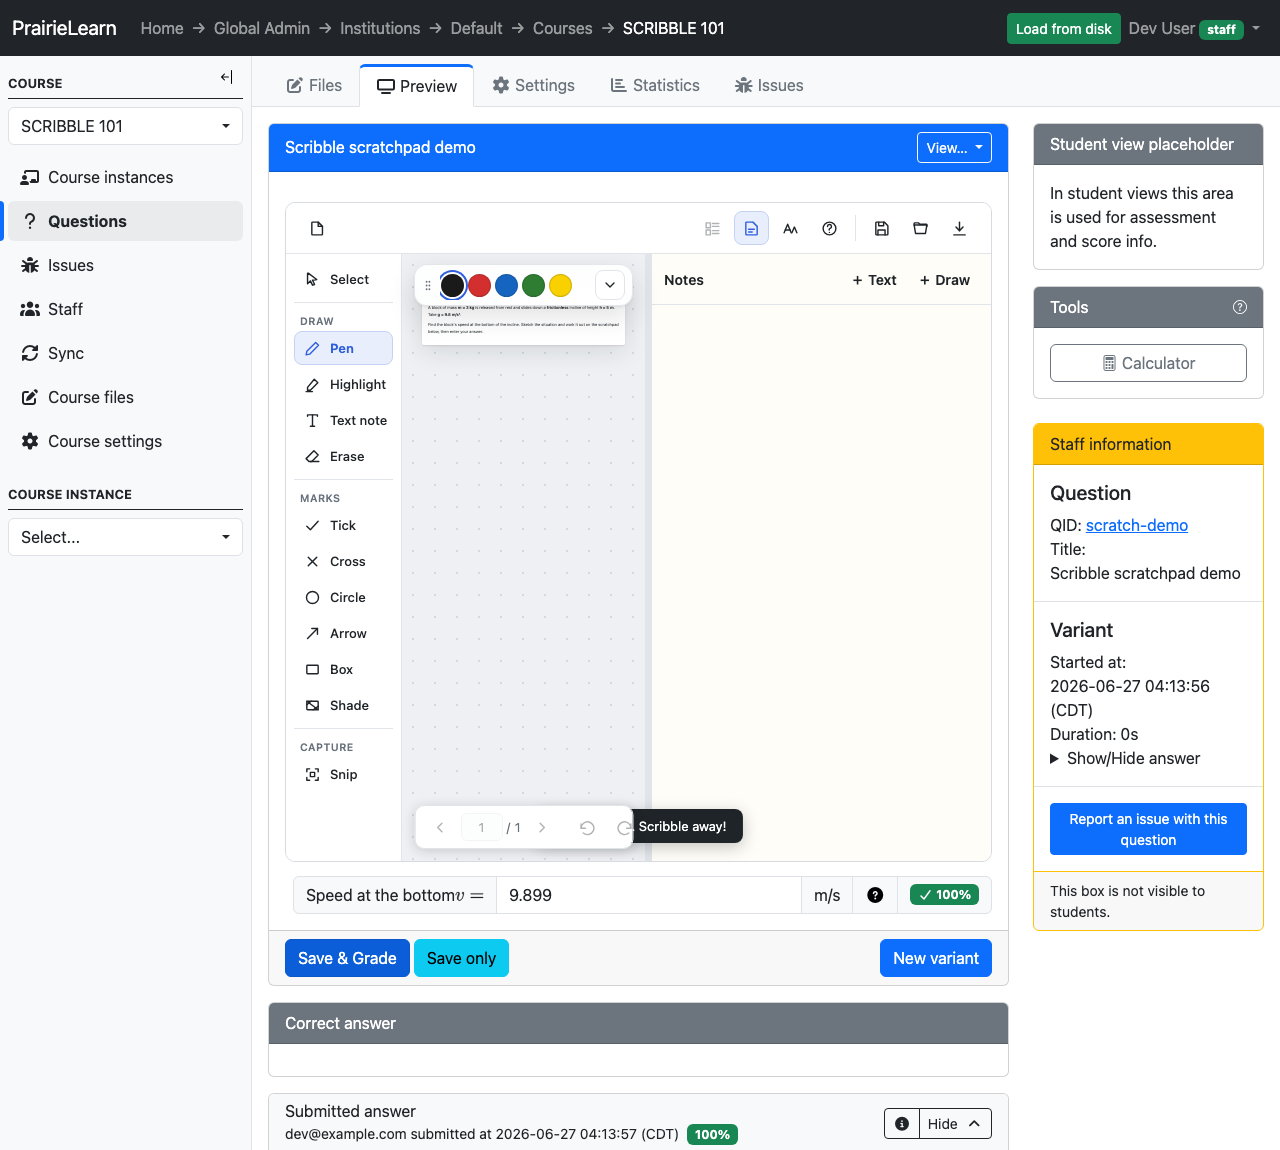
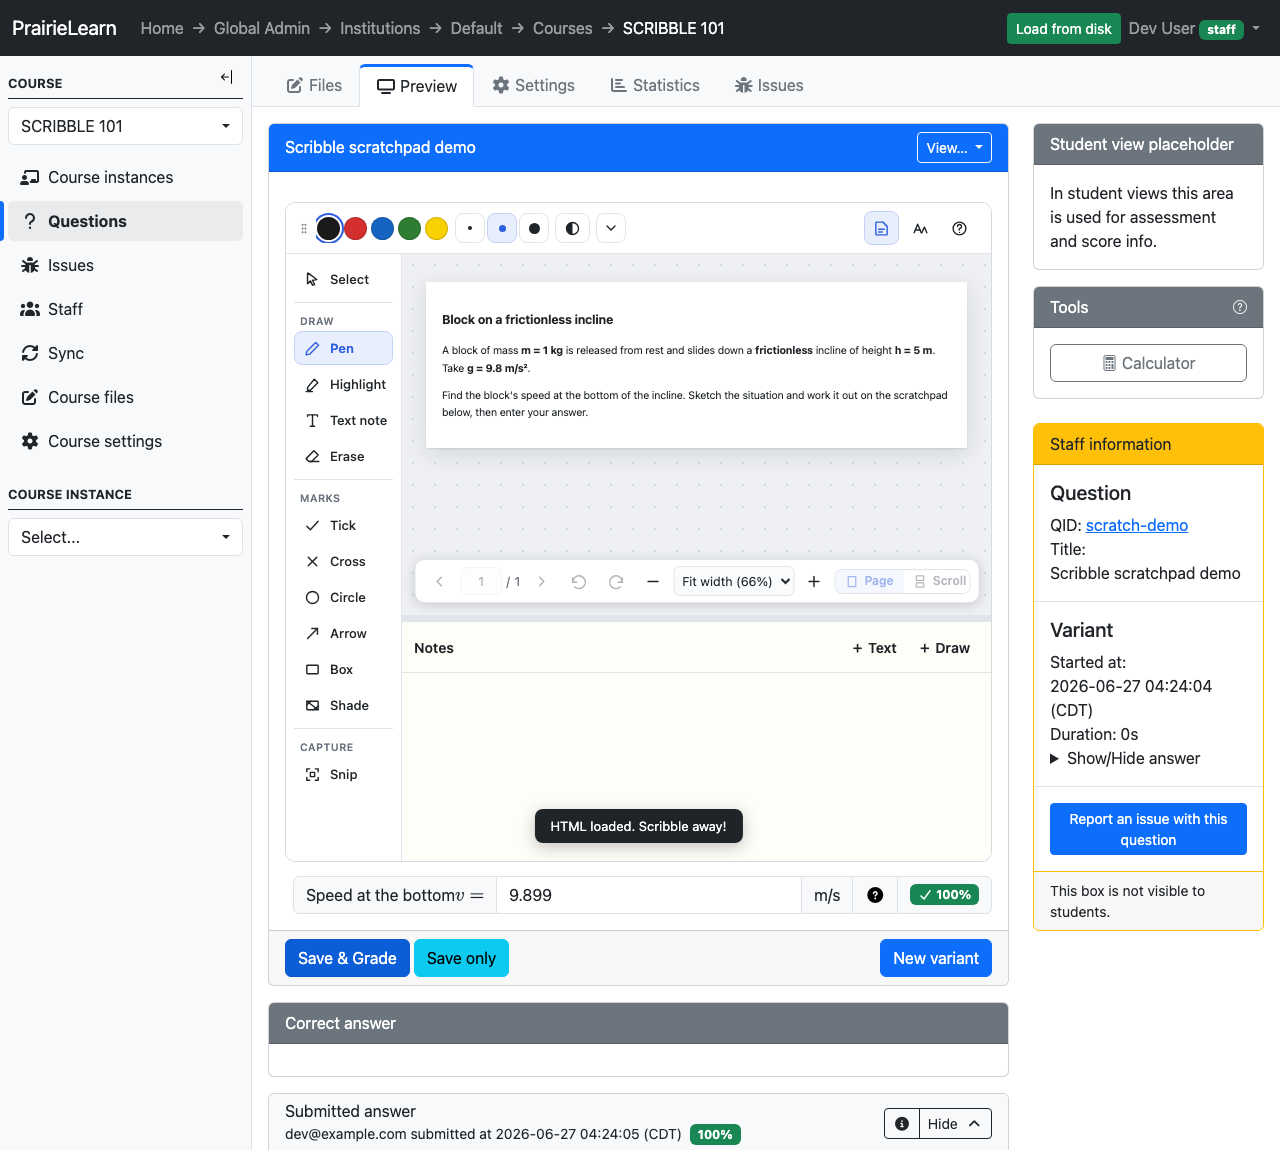
Scribble embed layout: tools left · notes below (draggable up) · docked colour bar
Restructures embed mode (body.embedded) to the PrairieLearn meeting-notes layout:
- #main becomes a grid: tools rail LEFT, document on top, notes BELOW (full width).
- The splitter is now horizontal in embed mode and resizes the notes HEIGHT via
  --notes-h — drag up to grow the notes over the question (validated 240→420px).
- The colour bar docks into the toolbar instead of floating over the question:
  embed mode hides the document-management buttons (Open, thumbnails, Save, Resume,
  Export — the question auto-loads, no PDF) which both declutters the toolbar and
  frees the gap so dockCbar() fits.

Validated in real PL (headless): #main display:grid, rail left of stage, notes
below stage, colour bar docked off the question (cbarOverStage:false), splitter
row-resize, AND the typed answer still grades 100% correct. Cache v87.

diff --git a/scribble/web/app.js b/scribble/web/app.js
@@ -3,7 +3,7 @@
 // content outside explicit file downloads.
 
 // Bump with index.html's ?v= references on every release (cache busting).
-const APP_VERSION = "85";
+const APP_VERSION = "87";
 
 import init, { App } from "./pkg/scribble.js?v=12";
 import {
@@ -13,13 +13,13 @@ import {
   looksLikeText,
   wrapLine,
   sha256Hex,
-} from "./utils.js?v=85";
-import { buildPdf, canvasJpegBytes } from "./pdf-writer.js?v=85";
-import { initEmbed } from "./embed.js?v=85";
-import { idbGet, idbPut, idbDelete } from "./idb.js?v=85";
-import { htmlTextInRegion, pdfTextInRegion } from "./text-extract.js?v=85";
-import { confirmSnipText, confirmOpenDialog, showClippingLightbox } from "./modals.js?v=85";
-import { initColorBar, isCbarDocked, dockCbar, clampContextBar, setCbarCollapsed } from "./colorbar.js?v=85";
+} from "./utils.js?v=87";
+import { buildPdf, canvasJpegBytes } from "./pdf-writer.js?v=87";
+import { initEmbed } from "./embed.js?v=87";
+import { idbGet, idbPut, idbDelete } from "./idb.js?v=87";
+import { htmlTextInRegion, pdfTextInRegion } from "./text-extract.js?v=87";
+import { confirmSnipText, confirmOpenDialog, showClippingLightbox } from "./modals.js?v=87";
+import { initColorBar, isCbarDocked, dockCbar, clampContextBar, setCbarCollapsed } from "./colorbar.js?v=87";
 
 // PDF.js is imported lazily so a load failure there can never break the UI.
 let pdfjsLib = null;
@@ -2478,20 +2478,33 @@ function relayoutSketches() {
 }
 window.addEventListener("resize", relayoutSketches);
 
-// Splitter: drag to resize the notes pane; double-click to reset.
+// Splitter: drag to resize the notes pane; double-click to reset. In embedded
+// (PrairieLearn) mode the notes pane sits BELOW the document, so the splitter is
+// horizontal and resizes its HEIGHT — drag up to grow the notes over the question.
 let splitDrag = null;
 els.splitter.addEventListener("pointerdown", (ev) => {
-  splitDrag = { startX: ev.clientX, startW: els.notesPane.offsetWidth };
+  splitDrag = document.body.classList.contains("embedded")
+    ? { vertical: true, startY: ev.clientY, startH: els.notesPane.offsetHeight }
+    : { startX: ev.clientX, startW: els.notesPane.offsetWidth };
   els.splitter.setPointerCapture(ev.pointerId);
 });
 els.splitter.addEventListener("pointermove", (ev) => {
   if (!splitDrag) return;
-  const w = splitDrag.startW + (splitDrag.startX - ev.clientX);
-  els.notesPane.style.width = `${Math.max(220, Math.min(window.innerWidth * 0.6, w))}px`;
+  if (splitDrag.vertical) {
+    const h = splitDrag.startH + (splitDrag.startY - ev.clientY); // drag up → taller
+    $("main").style.setProperty("--notes-h", `${Math.max(80, Math.min(window.innerHeight * 0.82, h))}px`);
+  } else {
+    const w = splitDrag.startW + (splitDrag.startX - ev.clientX);
+    els.notesPane.style.width = `${Math.max(220, Math.min(window.innerWidth * 0.6, w))}px`;
+  }
   relayoutSketches();
 });
 els.splitter.addEventListener("pointerup", () => { splitDrag = null; savePrefs(); });
-els.splitter.addEventListener("dblclick", () => { els.notesPane.style.width = ""; savePrefs(); });
+els.splitter.addEventListener("dblclick", () => {
+  if (document.body.classList.contains("embedded")) $("main").style.removeProperty("--notes-h");
+  else els.notesPane.style.width = "";
+  savePrefs();
+});
 
 // ---------- thumbnails sidebar ----------
 
@@ -2753,6 +2766,8 @@ init()
     applyPrefs();
     updateContextBar(activeTool()); // hide the colour UI (and palette) until a doc opens
     initEmbed({ app, els, status, toggleNotes, renderNotes, openHtml });
+    // In embed mode, keep the colour bar docked in the toolbar — never floating over the question.
+    if (document.body.classList.contains("embedded")) dockCbar(12);
     autoOpenIfRequested(); // "Open in a new tab" → pop the file picker here
   })
   .catch((e) => {

diff --git a/scribble/web/style.css b/scribble/web/style.css
@@ -517,6 +517,45 @@ body.cbar-docked #context-bar.cbar-dragging { transform: none !important; }
   border-left: 1px solid var(--line);
 }
 
+/* Embedded (PrairieLearn): tools on the LEFT · document on top · notes BELOW,
+   resizable UP by dragging the splitter so they can come over the question. */
+body.embedded #main {
+  display: grid;
+  grid-template-columns: auto minmax(0, 1fr);
+  grid-template-rows: minmax(60px, 1fr) auto auto;
+  grid-template-areas:
+    "rail stage"
+    "rail split"
+    "rail notes";
+}
+body.embedded #rail  { grid-area: rail; }
+body.embedded #stage { grid-area: stage; }
+body.embedded #splitter {
+  grid-area: split;
+  width: auto;
+  height: 6px;
+  cursor: row-resize;
+}
+body.embedded #notes-pane {
+  grid-area: notes;
+  height: var(--notes-h, 240px);
+  width: auto;
+  min-width: 0;
+  max-width: none;
+  border-left: none;
+  border-top: 1px solid var(--line);
+}
+
+/* Embed: drop the document-management buttons (the question auto-loads, there are
+   no PDF thumbnails, and save/export come with the graded upgrade) — this declutters
+   the toolbar AND frees the gap so the colour bar docks there, off the question. */
+body.embedded #btn-open,
+body.embedded #btn-thumbs,
+body.embedded #btn-save,
+body.embedded #btn-load,
+body.embedded #btn-export,
+body.embedded .bar-divider { display: none; }
+
 #notes-pane header {
   display: flex;
   justify-content: space-between;

diff --git a/scribble/web/index.html b/scribble/web/index.html
@@ -15,7 +15,7 @@
        headers, and a stale app.js running against a fresh .wasm was the
        single biggest source of "it broke after an update". Bump APP_VERSION
        in app.js and these together on every release. -->
-  <link rel="stylesheet" href="style.css?v=85">
+  <link rel="stylesheet" href="style.css?v=87">
 </head>
 <body>
   <!-- ============================ TOP BAR ============================ -->
@@ -310,6 +310,6 @@
   <input id="file-pdf" type="file" accept=".pdf,application/pdf,.html,.htm,text/html" hidden>
   <input id="file-json" type="file" accept=".json,application/json" hidden>
 
-  <script type="module" src="app.js?v=85"></script>
+  <script type="module" src="app.js?v=87"></script>
 </body>
 </html>